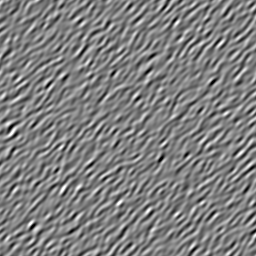
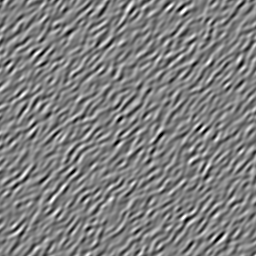
feat: increased performance of gabor noise significantly (~200ns/op in my tests) feat: allow for better directional control in higher dimensions on gabor noise

diff --git a/src/main/java/net/flamgop/lattice/coherent/GaborNoiseSource.java b/src/main/java/net/flamgop/lattice/coherent/GaborNoiseSource.java
@@ -6,20 +6,46 @@ import net.flamgop.lattice.NoiseSource;
 public final class GaborNoiseSource implements NoiseSource {
 
     private final long seed;
-    private final double cosOrientation, sinOrientation;
-    private final double bandwidth;
+    private final double dir1X;
+    private final double dir2X, dir2Y;
+    private final double dir3X, dir3Y, dir3Z;
+    private final double dir4X, dir4Y, dir4Z, dir4W;
+    private final double piBandwidthSqr;
     private final int impulsesPerCell;
 
+
     /// Gabor noise's dimensional complexity is constant, but it is extremely expensive to compute regardless.
+    /// Note: the direction vector is normalized upon construction to ensure uniform wave frequency across all axes
+    /// Note: by "normalized", it is independently normalized into 4 separated vectors, one for each level of dimensionality.
+    /// Note: this might be a bit weird, but it's the best solution I could come up with for coherent N-dimensional gabor noise.
     /// @param seed the noise seed
-    /// @param orientation the wave propagation angle in radians
     /// @param bandwidth the radius of the Gaussian envelope (lower values mean wider kernels)
     /// @param impulsesPerCell the density of sparse impulses to convolute per lattice unit
-    public GaborNoiseSource(long seed, double orientation, double bandwidth, int impulsesPerCell) {
+    /// @param dirX the X-component of the wave orientation vector.
+    /// @param dirY the Y-component of the wave orientation vector.
+    /// @param dirZ the Z-component of the wave orientation vector.
+    /// @param dirW the W-component of the wave orientation vector.
+    public GaborNoiseSource(long seed, double bandwidth, int impulsesPerCell, double dirX, double dirY, double dirZ, double dirW) {
         this.seed = seed;
-        this.cosOrientation = Math.cos(orientation);
-        this.sinOrientation = Math.sin(orientation);
-        this.bandwidth = bandwidth;
+
+        this.dir1X = Math.signum(dirX);
+
+        double len2D = Math.sqrt(dirX * dirX + dirY * dirY);
+        this.dir2X = dirX / len2D;
+        this.dir2Y = dirY / len2D;
+        
+        double len3D = Math.sqrt(dirX * dirX + dirY * dirY + dirZ * dirZ);
+        this.dir3X = dirX / len3D;
+        this.dir3Y = dirY / len3D;
+        this.dir3Z = dirZ / len3D;
+        
+        double len4D = Math.sqrt(dirX * dirX + dirY * dirY + dirZ * dirZ + dirW * dirW);
+        this.dir4X = dirX / len4D;
+        this.dir4Y = dirY / len4D;
+        this.dir4Z = dirZ / len4D;
+        this.dir4W = dirW / len4D;
+
+        this.piBandwidthSqr = -Math.PI * (bandwidth * bandwidth);
         this.impulsesPerCell = impulsesPerCell;
     }
 
@@ -28,21 +54,20 @@ public final class GaborNoiseSource implements NoiseSource {
         int cellX = MathHelpers.fastFloor(x);
         double totalNoise = 0.0;
 
-        for (int tx = cellX - 1; tx <= cellX + 1; tx++) {
-            for (int k = 0; k < impulsesPerCell; k++) {
-                long impulseSeed = seed ^ ((long) k * 73856093L);
+        for (int k = 0; k < impulsesPerCell; k++) {
+            long impulseSeed = seed ^ ((long) k * 73856093L);
+            for (int trx = -1; trx <= 1; trx++) {
+                int tx = cellX + trx;
                 double impulseX = tx + MathHelpers.murmurHash3Finalizer(tx, k, impulseSeed);
-                double weight = (MathHelpers.murmurHash3Finalizer(tx ^ k, 0, impulseSeed) * 2.0) - 1.0;
 
-                double dx = x - impulseX;
-                double distSq = dx * dx;
-
-                double gaussian = Math.exp(-Math.PI * (bandwidth * bandwidth) * distSq);
-                double wave = Math.cos(2.0 * Math.PI * dx);
-
-                totalNoise += weight * gaussian * wave;
+                double dx = x - impulseX;;
+                totalNoise +=
+                        ((MathHelpers.murmurHash3Finalizer(tx ^ k, 0, impulseSeed) * 2.0) - 1.0)
+                        * Math.exp(piBandwidthSqr * (dx * dx))
+                        * Math.cos(Math.TAU * (dx * dir1X));
             }
         }
+
         return clampAndNormalize(totalNoise);
     }
 
@@ -52,24 +77,20 @@ public final class GaborNoiseSource implements NoiseSource {
         int cellY = MathHelpers.fastFloor(y);
         double totalNoise = 0.0;
 
-        for (int ty = cellY - 1; ty <= cellY + 1; ty++) {
-            for (int tx = cellX - 1; tx <= cellX + 1; tx++) {
-                for (int k = 0; k < impulsesPerCell; k++) {
-                    long impulseSeed = seed ^ ((long) k * 73856093L);
+        for (int k = 0; k < impulsesPerCell; k++) {
+            long impulseSeed = seed ^ ((long) k * 73856093L);
+            for (int tyr = -1; tyr <= 1; tyr++) {
+                int ty = cellY + tyr;
+                for (int trx = -1; trx <= 1; trx++) {
+                    int tx = cellX + trx;
                     double impulseX = tx + MathHelpers.murmurHash3Finalizer(tx, ty ^ k, impulseSeed);
                     double impulseY = ty + MathHelpers.murmurHash3Finalizer(ty, tx ^ k, impulseSeed);
-                    double weight = (MathHelpers.murmurHash3Finalizer(tx ^ k, ty ^ k, impulseSeed) * 2.0) - 1.0;
 
-                    double dx = x - impulseX;
-                    double dy = y - impulseY;
-                    double distSq = (dx * dx) + (dy * dy);
-
-                    double gaussian = Math.exp(-Math.PI * (bandwidth * bandwidth) * distSq);
-
-                    double projection = (dx * cosOrientation) + (dy * sinOrientation);
-                    double wave = Math.cos(2.0 * Math.PI * projection);
-
-                    totalNoise += weight * gaussian * wave;
+                    double dx = x - impulseX; double dy = y - impulseY;
+                    totalNoise +=
+                            ((MathHelpers.murmurHash3Finalizer(tx ^ k, ty, impulseSeed) * 2.0) - 1.0)
+                            * Math.exp(piBandwidthSqr * (dx * dx + dy * dy))
+                            * Math.cos(Math.TAU * (dx * dir2X + dy * dir2Y));
                 }
             }
         }
@@ -83,31 +104,29 @@ public final class GaborNoiseSource implements NoiseSource {
         int cellZ = MathHelpers.fastFloor(z);
         double totalNoise = 0.0;
 
-        for (int tz = cellZ - 1; tz <= cellZ + 1; tz++) {
-            for (int ty = cellY - 1; ty <= cellY + 1; ty++) {
-                for (int tx = cellX - 1; tx <= cellX + 1; tx++) {
-                    for (int k = 0; k < impulsesPerCell; k++) {
-                        long impulseSeed = seed ^ ((long) k * 73856093L);
+        for (int k = 0; k < impulsesPerCell; k++) {
+            long impulseSeed = seed ^ ((long) k * 73856093L);
+
+            for (int trz = -1; trz <= 1; trz++) {
+                int tz = cellZ + trz;
+                for (int tyr = -1; tyr <= 1; tyr++) {
+                    int ty = cellY + tyr;
+                    for (int trx = -1; trx <= 1; trx++) {
+                        int tx = cellX + trx;
                         double impulseX = tx + MathHelpers.murmurHash3Finalizer(tx, ty ^ tz ^ k, impulseSeed);
                         double impulseY = ty + MathHelpers.murmurHash3Finalizer(ty, tx ^ tz ^ k, impulseSeed);
                         double impulseZ = tz + MathHelpers.murmurHash3Finalizer(tz, tx ^ ty ^ k, impulseSeed);
-                        double weight = (MathHelpers.murmurHash3Finalizer(tx ^ k, ty ^ tz ^ k, impulseSeed) * 2.0) - 1.0;
 
-                        double dx = x - impulseX;
-                        double dy = y - impulseY;
-                        double dz = z - impulseZ;
-                        double distSq = (dx * dx) + (dy * dy) + (dz * dz);
-
-                        double gaussian = Math.exp(-Math.PI * (bandwidth * bandwidth) * distSq);
-
-                        double projection = (dx * cosOrientation) + (dy * sinOrientation) + dz;
-                        double wave = Math.cos(2.0 * Math.PI * projection);
-
-                        totalNoise += weight * gaussian * wave;
+                        double dx = x - impulseX; double dy = y - impulseY; double dz = z - impulseZ;
+                        totalNoise +=
+                                ((MathHelpers.murmurHash3Finalizer(tx ^ k, ty ^ tz, impulseSeed) * 2.0) - 1.0)
+                                * Math.exp(piBandwidthSqr * (dx * dx + dy * dy + dz * dz))
+                                * Math.cos(Math.TAU * (dx * dir3X + dy * dir3Y + dz * dir3Z));
                     }
                 }
             }
         }
+
         return clampAndNormalize(totalNoise);
     }
 
@@ -119,30 +138,26 @@ public final class GaborNoiseSource implements NoiseSource {
         int cellW = MathHelpers.fastFloor(w);
         double totalNoise = 0.0;
 
-        for (int tw = cellW - 1; tw <= cellW + 1; tw++) {
-            for (int tz = cellZ - 1; tz <= cellZ + 1; tz++) {
-                for (int ty = cellY - 1; ty <= cellY + 1; ty++) {
-                    for (int tx = cellX - 1; tx <= cellX + 1; tx++) {
-                        for (int k = 0; k < impulsesPerCell; k++) {
-                            long impulseSeed = seed ^ ((long) k * 73856093L);
+        for (int k = 0; k < impulsesPerCell; k++) {
+            long impulseSeed = seed ^ ((long) k * 73856093L);
+            for (int trw = -1; trw <= 1; trw++) {
+                int tw = cellW + trw;
+                for (int trz = -1; trz <= 1; trz++) {
+                    int tz = cellZ + trz;
+                    for (int tyr = -1; tyr <= 1; tyr++) {
+                        int ty = cellY + tyr;
+                        for (int trx = -1; trx <= 1; trx++) {
+                            int tx = cellX + trx;
                             double impulseX = tx + MathHelpers.murmurHash3Finalizer(tx, ty ^ tz ^ tw ^ k, impulseSeed);
                             double impulseY = ty + MathHelpers.murmurHash3Finalizer(ty, tx ^ tz ^ tw ^ k, impulseSeed);
                             double impulseZ = tz + MathHelpers.murmurHash3Finalizer(tz, tx ^ ty ^ tw ^ k, impulseSeed);
                             double impulseW = tw + MathHelpers.murmurHash3Finalizer(tw, tx ^ ty ^ tz ^ k, impulseSeed);
-                            double weight = (MathHelpers.murmurHash3Finalizer(tx ^ k, ty ^ tz ^ tw, impulseSeed) * 2.0) - 1.0;
 
-                            double dx = x - impulseX;
-                            double dy = y - impulseY;
-                            double dz = z - impulseZ;
-                            double dw = w - impulseW;
-                            double distSq = (dx * dx) + (dy * dy) + (dz * dz) + (dw * dw);
-
-                            double gaussian = Math.exp(-Math.PI * (bandwidth * bandwidth) * distSq);
-
-                            double projection = (dx * cosOrientation) + (dy * sinOrientation) + dz + dw;
-                            double wave = Math.cos(2.0 * Math.PI * projection);
-
-                            totalNoise += weight * gaussian * wave;
+                            double dx = x - impulseX; double dy = y - impulseY; double dz = z - impulseZ; double dw = w - impulseW;
+                            totalNoise +=
+                                    ((MathHelpers.murmurHash3Finalizer(tx ^ k, ty ^ tz ^ tw, impulseSeed) * 2.0) - 1.0)
+                                    * Math.exp(piBandwidthSqr * (dx * dx + dy * dy + dz * dz + dw * dw))
+                                    * Math.cos(Math.TAU * (dx * dir4X + dy * dir4Y + dz * dir4Z + dw * dir4W));
                         }
                     }
                 }

diff --git a/src/jmh/java/net/flamgop/NoiseBenchmark.java b/src/jmh/java/net/flamgop/NoiseBenchmark.java
@@ -11,9 +11,9 @@ import java.util.concurrent.TimeUnit;
 @BenchmarkMode(Mode.AverageTime)
 @OutputTimeUnit(TimeUnit.NANOSECONDS)
 @State(Scope.Benchmark)
-@Fork(1)
-@Warmup(iterations = 8)
-@Measurement(iterations = 5)
+@Fork(3)
+@Warmup(iterations = 3, time = 1, timeUnit = TimeUnit.SECONDS)
+@Measurement(iterations = 5, time = 1, timeUnit = TimeUnit.SECONDS)
 public class NoiseBenchmark {
 
     @State(Scope.Thread)
@@ -35,13 +35,14 @@ public class NoiseBenchmark {
 
     @Setup
     public void setup() {
-        switch (noiseType) {
-            case "VALUE"   -> source = new ValueNoiseSource(1337);
-            case "PERLIN"  -> source = new PerlinNoiseSource(1337);
-            case "SIMPLEX" -> source = new OpenSimplex2.StandardLatticeNoiseSource(1337);
-            case "WORLEY"  -> source = new WorleyNoiseSource(1337);
-            case "GABOR"   -> source = new GaborNoiseSource(1337, 0.785, 1.0, 8);
-        }
+        source = switch (noiseType) {
+            case "VALUE"   -> new ValueNoiseSource(1337);
+            case "PERLIN"  -> new PerlinNoiseSource(1337);
+            case "SIMPLEX" -> new OpenSimplex2.StandardLatticeNoiseSource(1337);
+            case "WORLEY"  -> new WorleyNoiseSource(1337);
+            case "GABOR"   -> new GaborNoiseSource(1337, 1.0, 8, 1.0, 1.0, 1.0, 1.0);
+            default -> throw new IllegalStateException("Unexpected value: " + noiseType);
+        };
     }
 
     @Benchmark

diff --git a/src/jmh/java/net/flamgop/BaselineBenchmark.java b/src/jmh/java/net/flamgop/BaselineBenchmark.java
@@ -8,9 +8,9 @@ import java.util.concurrent.TimeUnit;
 @BenchmarkMode(Mode.AverageTime)
 @OutputTimeUnit(TimeUnit.NANOSECONDS)
 @State(Scope.Benchmark)
-@Fork(1)
-@Warmup(iterations = 8)
-@Measurement(iterations = 5)
+@Fork(3)
+@Warmup(iterations = 3, time = 1, timeUnit = TimeUnit.SECONDS)
+@Measurement(iterations = 5, time = 1, timeUnit = TimeUnit.SECONDS)
 public class BaselineBenchmark {
     @State(Scope.Thread)
     public static class SequenceState {

diff --git a/demo/src/main/java/net/flamgop/lattice/demo/Demo.java b/demo/src/main/java/net/flamgop/lattice/demo/Demo.java
@@ -18,7 +18,7 @@ public class Demo {
         NoiseSource perlin = new PerlinNoiseSource(1337);
         NoiseSource simplex = new OpenSimplex2.StandardLatticeNoiseSource(1337);
         NoiseSource worley = new WorleyNoiseSource(1337);
-        NoiseSource gabor = new GaborNoiseSource(1337, 0.785, 1.0, 8);
+        NoiseSource gabor = new GaborNoiseSource(1337, 1.0, 8, 1.0, 1.0, 1.0, 1.0);
 
         NoiseSource complex = new OpenSimplex2.StandardLatticeNoiseSource(1337)
                 .warp(perlin